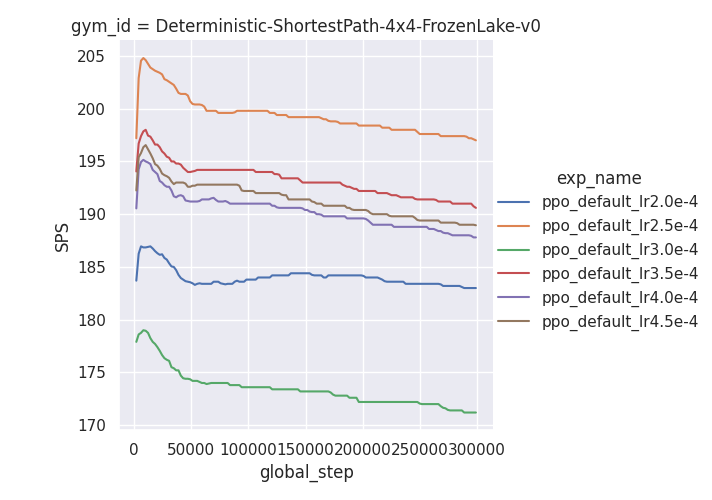
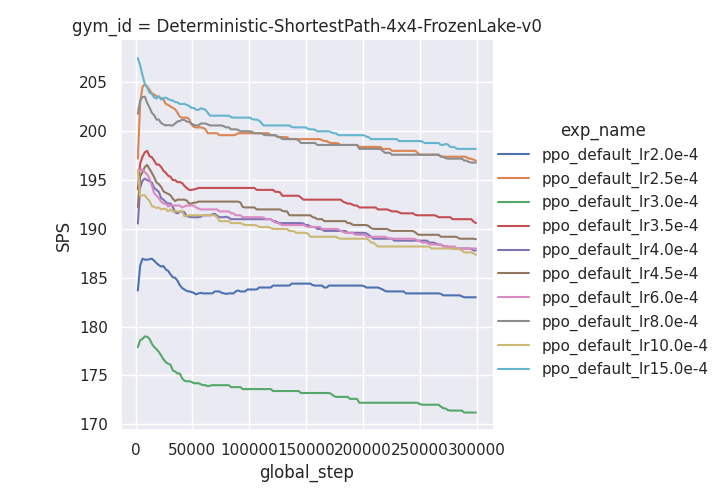
new tests

diff --git a/test_log.py b/test_log.py
@@ -28,6 +28,10 @@ exp_names = [
     "ppo_default_lr3.5e-4",
     "ppo_default_lr4.0e-4",
     "ppo_default_lr4.5e-4",
+    "ppo_default_lr6.0e-4",
+    "ppo_default_lr8.0e-4",
+    "ppo_default_lr10.0e-4",
+    "ppo_default_lr15.0e-4",
 ]
 seeds = [10, 20, 30, 40, 50]
 stepsize = 4 * 128 * 4
